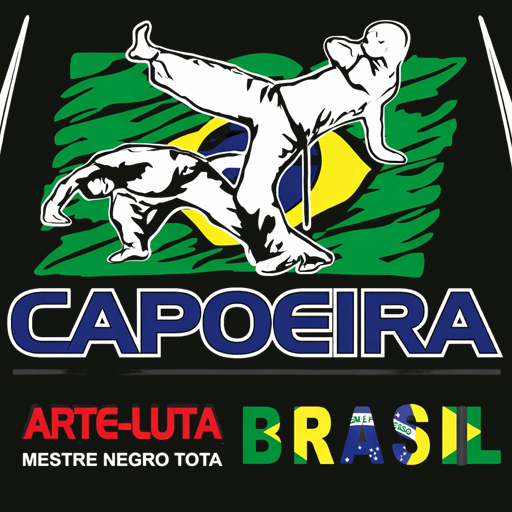
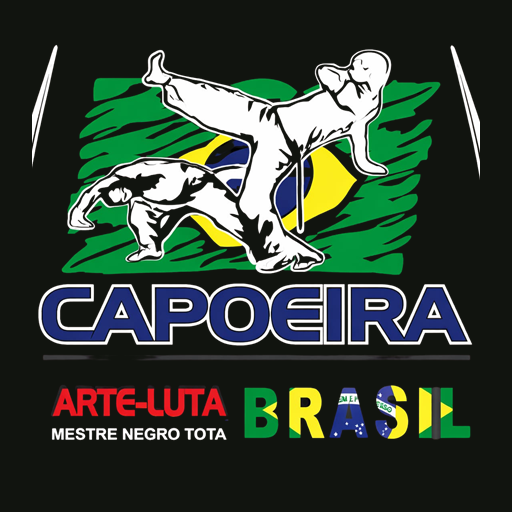
feat: atualiza icone instalado da capoeira

diff --git a/src/app/layout.tsx b/src/app/layout.tsx
@@ -32,11 +32,12 @@ export const metadata: Metadata = {
   applicationName: "Arena Arte Luta",
   manifest: "/manifest.webmanifest",
   icons: {
-    icon: [{ url: "/brand/capoeira-app-icon.png", type: "image/png", sizes: "512x512" }],
-    apple: [{ url: "/brand/capoeira-app-icon.png", type: "image/png", sizes: "512x512" }],
+    icon: [{ url: "/brand/capoeira-app-icon-v2.png", type: "image/png", sizes: "512x512" }],
+    shortcut: [{ url: "/brand/capoeira-app-icon-v2.png", type: "image/png", sizes: "512x512" }],
+    apple: [{ url: "/brand/capoeira-app-icon-v2.png", type: "image/png", sizes: "512x512" }],
   },
 };
-export const viewport: Viewport = { themeColor: "#171813", width: "device-width", initialScale: 1 };
+export const viewport: Viewport = { themeColor: "#11140f", width: "device-width", initialScale: 1 };
 
 export default function RootLayout({ children }: Readonly<{ children: React.ReactNode }>) {
   return <html lang="pt-BR"><body>{children}</body></html>;

diff --git a/public/sw.js b/public/sw.js
@@ -1,3 +1,16 @@
-const CACHE = "arena-arte-luta-v3";
-self.addEventListener("install", (event) => event.waitUntil(caches.open(CACHE).then((cache) => cache.addAll(["/", "/manifest.webmanifest"]))));
+const CACHE = "arena-arte-luta-v4";
+const APP_SHELL = ["/", "/manifest.webmanifest", "/brand/capoeira-app-icon-v2.png"];
+
+self.addEventListener("install", (event) => event.waitUntil(
+  caches.open(CACHE)
+    .then((cache) => cache.addAll(APP_SHELL))
+    .then(() => self.skipWaiting()),
+));
+
+self.addEventListener("activate", (event) => event.waitUntil(
+  caches.keys()
+    .then((keys) => Promise.all(keys.filter((key) => key !== CACHE).map((key) => caches.delete(key))))
+    .then(() => self.clients.claim()),
+));
+
 self.addEventListener("fetch", (event) => { if (event.request.method === "GET") event.respondWith(fetch(event.request).catch(() => caches.match(event.request))); });
